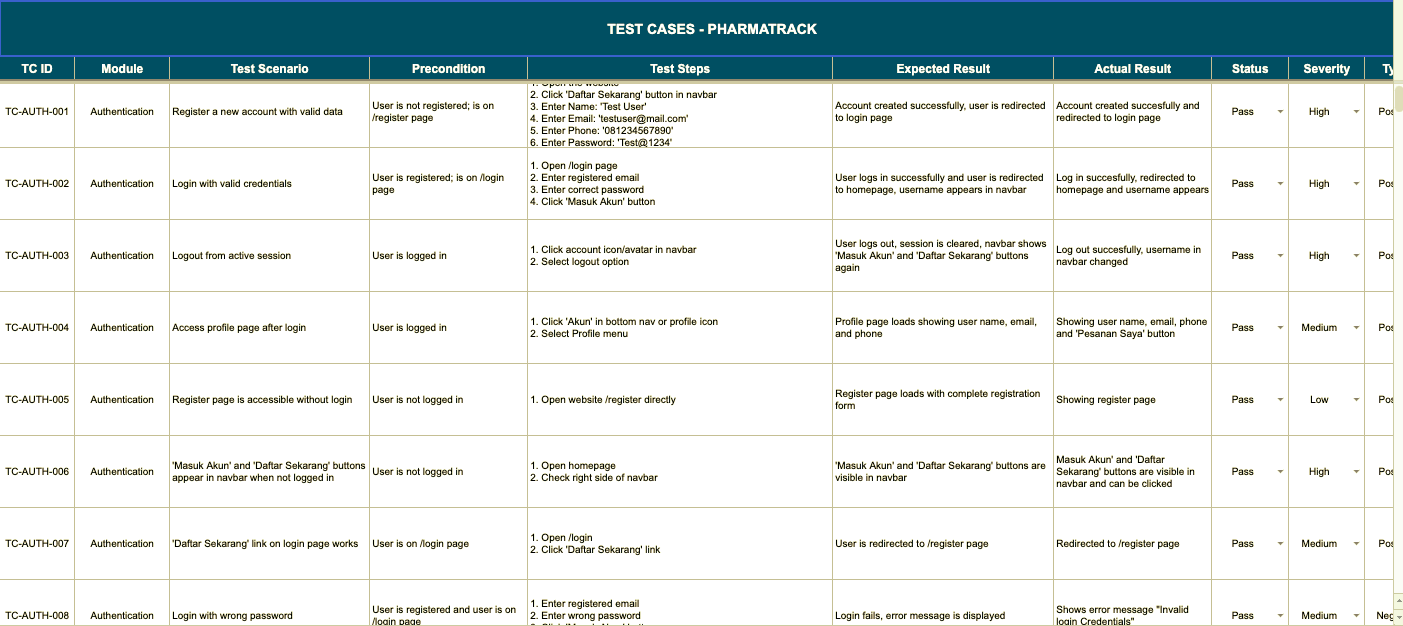
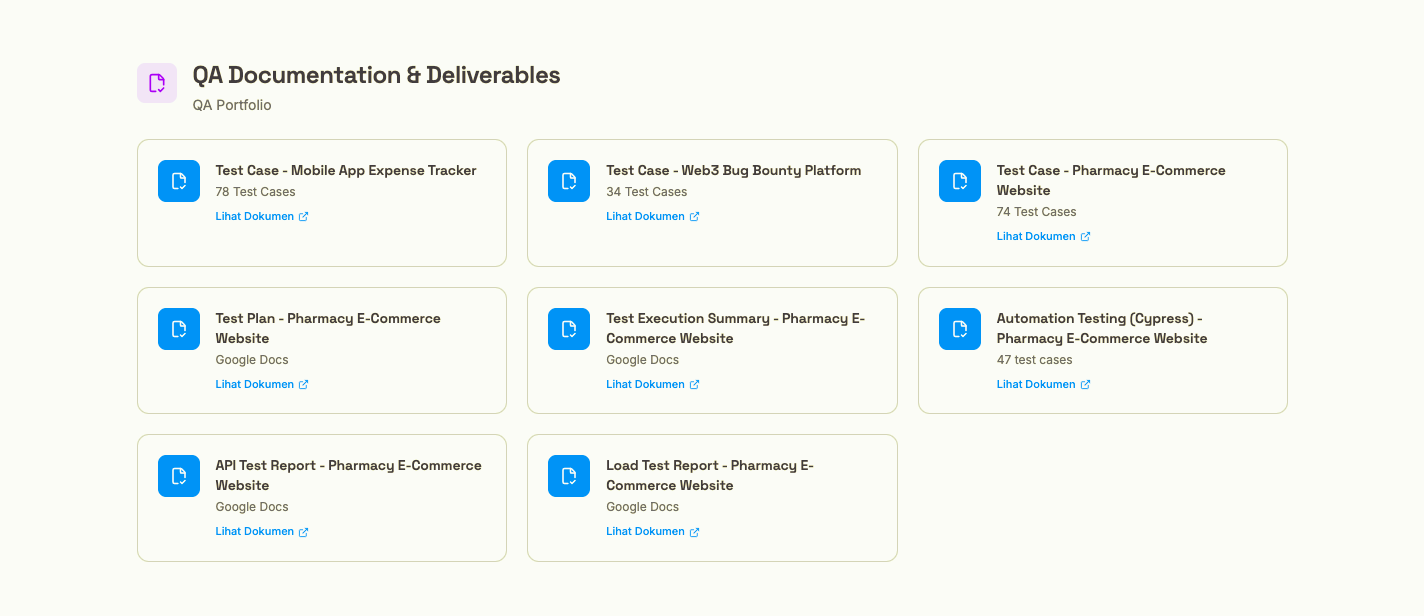
Update About section with shortened profile and QA portfolio image

diff --git a/src/components/AboutSection.tsx b/src/components/AboutSection.tsx
@@ -30,13 +30,10 @@ export const AboutSection: React.FC = () => {
 
           <div className="space-y-6 text-neutral-300 font-body text-base sm:text-xl leading-relaxed border-l-2 border-white/20 pl-6 sm:pl-8">
             <p>
-              I am an undergraduate student pursuing a <b className="text-white font-semibold">Bachelor of Information Technology</b> at <b className="text-white font-semibold">President University</b> (Batch 2024).
+              <b className="text-white font-semibold">Information Technology student at President University</b> (Batch 2024) with solid grounding in <b className="text-white font-semibold">system analysis, software development, network security, and cloud infrastructure</b>.
             </p>
             <p>
-              Driven by a genuine enthusiasm for computing and systems architecture, my primary technical focus centers around <b className="text-white font-semibold">cloud computing</b> and <b className="text-white font-semibold">cybersecurity</b>. I explore how scalable cloud infrastructures are deployed, monitored, and resiliently defended against modern security threats.
-            </p>
-            <p>
-              My approach blends continuous practical lab research, infrastructure engineering, and defensive analysis: dissecting complex systems, evaluating vulnerabilities, and constructing reliable defensive controls.
+              Experienced in turning business needs into <b className="text-white font-semibold">system designs, workflows, and documentation</b>, with hands-on testing using <b className="text-white font-semibold">Cypress & Postman</b>. Familiar with <b className="text-white font-semibold">SDLC, web apps, and cybersecurity</b>, and used to leading team projects with a focus on collaboration and problem-solving.
             </p>
           </div>
 
